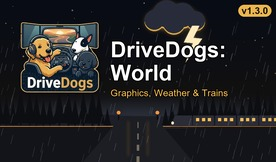
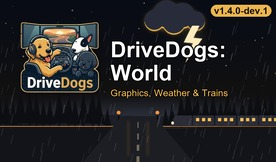
build world 1.4.0-dev.1: traffic-light lenses built in, own flash timing, no trafficlights add-on, base game 1.61.1.9

Changed region(s): [[0.7536, 0.0, 0.9855, 0.1235]]

diff --git a/README.md b/README.md
@@ -4,7 +4,7 @@ ETS2 mod for the world around the road, built as a local **megapack** with the `
 `scs-mod-developer` agent profile. This repo holds only configuration and tools. The mod is built from the
 extracted base game, subscribed Workshop items and one local archive. It is never redistributed.
 
-Current content (v1.2.0, ETS2 1.61):
+Current content (v1.4.0, ETS2 1.61.1.9):
 
 - **Graphics** from Juninho944 (Weather_3.9, Asphalt_improved, grass_4.0_lite, tree_improved_4k), DIOX (Beautiful
   Nature) and Darkcaptain (Realistic Rain), in the maintainer's load order.
